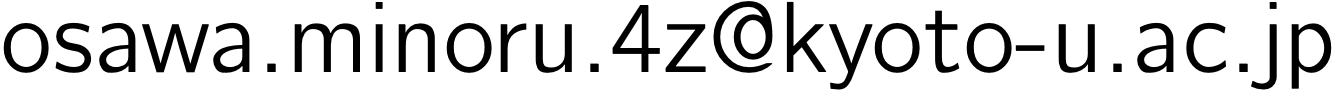
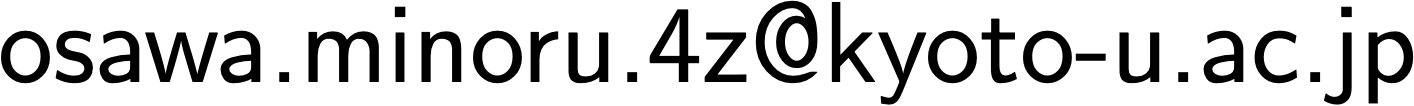
fix

diff --git a/_sass/settings/_typography.scss b/_sass/settings/_typography.scss
@@ -2,4 +2,3 @@
 
 $FSize-1: clamp(0.9rem, calc(0.829rem + 0.36vw), 1rem);
 $FSize-2: clamp(0.8rem, calc(0.6718rem + 0.6838vw), 1rem);
-$FSize-3: clamp(1rem, calc(0.9359rem + 0.3419vw), 1.1rem);;

diff --git a/_sass/components/_profile.scss b/_sass/components/_profile.scss
@@ -59,7 +59,7 @@
 
 #em-img {
     display: inline-block;
-    height: $FSize-3; 
+    height: $FSize-1; 
     vertical-align: middle;
 }
 
